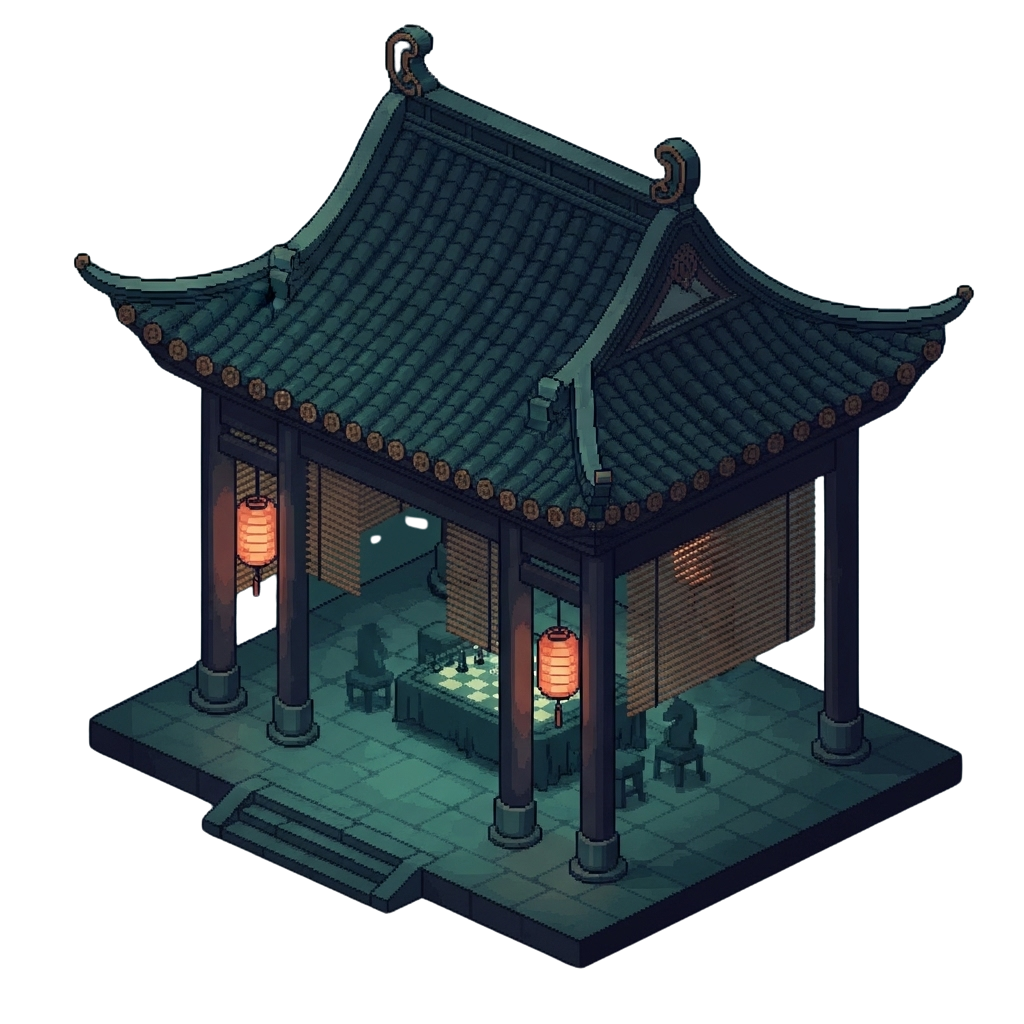
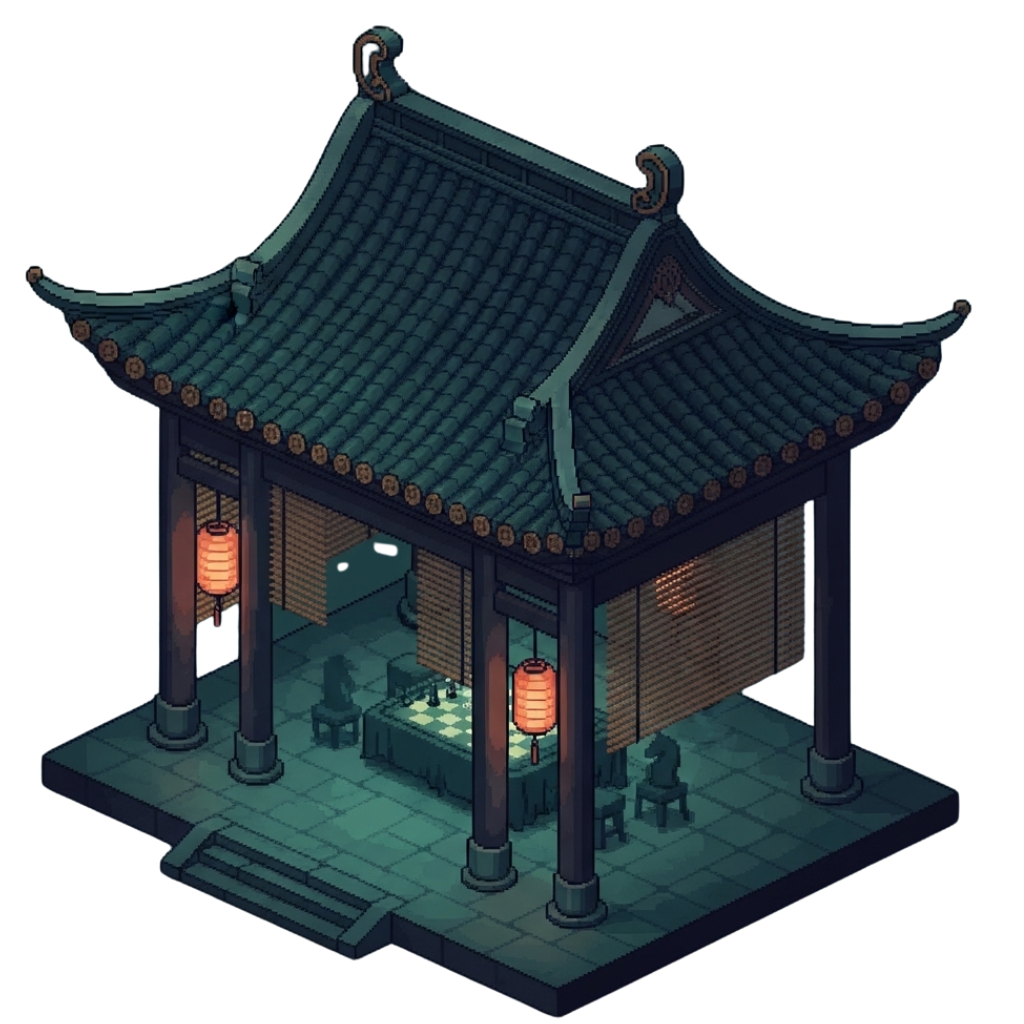
feat: change the building's img when hovered

diff --git a/Scene/playground.cpp b/Scene/playground.cpp
@@ -9,12 +9,16 @@ void Playground::Initialize() {
     background = Engine::Resources::GetInstance().GetBitmap("playground/playground.png");
     
     // 載入建築圖片
-    auto anqi_house_img = Engine::Resources::GetInstance().GetBitmap("playground/anqi_house.png");
-    auto xiangqi_house_img = Engine::Resources::GetInstance().GetBitmap("playground/xiangqi_house.png");
+    auto anqi_house_normal = Engine::Resources::GetInstance().GetBitmap("playground/anqi_house.png");
+    auto anqi_house_pressed = Engine::Resources::GetInstance().GetBitmap("playground/anqi_house_pressed.png");
+    auto xiangqi_house_normal = Engine::Resources::GetInstance().GetBitmap("playground/xiangqi_house.png");
+    auto xiangqi_house_pressed = Engine::Resources::GetInstance().GetBitmap("playground/xiangqi_house_pressed.png");
     
     // 初始化建築物
-    buildings.push_back(Building(ANQI_HOUSE_X, ANQI_HOUSE_Y, HOUSE_SIZE, HOUSE_SIZE, anqi_house_img, "anqi_house"));
-    buildings.push_back(Building(XIANGQI_HOUSE_X, XIANGQI_HOUSE_Y, HOUSE_SIZE, HOUSE_SIZE, xiangqi_house_img, "xiangqi_house"));
+    buildings.push_back(Building(ANQI_HOUSE_X, ANQI_HOUSE_Y, HOUSE_SIZE, HOUSE_SIZE, 
+                                anqi_house_normal, anqi_house_pressed, "anqi_house"));
+    buildings.push_back(Building(XIANGQI_HOUSE_X, XIANGQI_HOUSE_Y, HOUSE_SIZE, HOUSE_SIZE, 
+                                xiangqi_house_normal, xiangqi_house_pressed, "xiangqi_house"));
     
     // 創建玩家
     player = new Player();
@@ -48,8 +52,9 @@ void Playground::Draw() const {
         float draw_x = (building.x - camera_x - building.width/2) * scale_x;
         float draw_y = (building.y - camera_y - building.height/2) * scale_y;
         al_draw_scaled_bitmap(
-            building.image.get(),
-            0, 0, al_get_bitmap_width(building.image.get()), al_get_bitmap_height(building.image.get()),
+            building.GetCurrentImage().get(),
+            0, 0, al_get_bitmap_width(building.GetCurrentImage().get()), 
+            al_get_bitmap_height(building.GetCurrentImage().get()),
             draw_x, draw_y, building.width * scale_x, building.height * scale_y,
             0
         );
@@ -96,77 +101,52 @@ void Playground::Update(float deltaTime) {
     float playerSize = player->getSize();
     float moveSpeed = player->getSpeed();
     
+    // 獲取滑鼠位置
+    ALLEGRO_MOUSE_STATE mouse_state;
+    al_get_mouse_state(&mouse_state);
+    int mouse_x = mouse_state.x;
+    int mouse_y = mouse_state.y;
+    
+    // 更新建築物的懸停狀態
+    float scale_x = SCREEN_RIGHT / VIEWPORT_WIDTH;
+    float scale_y = SCREEN_BOTTOM / VIEWPORT_HEIGHT;
+    
+    // 重置所有建築物的懸停狀態
+    for (auto& building : buildings) {
+        building.is_hovered = false;
+    }
+    
+    // 檢查每個建築物的懸停狀態
+    for (auto& building : buildings) {
+        if (building.IsMouseOver(mouse_x, mouse_y, camera_x, camera_y, scale_x, scale_y)) {
+            building.is_hovered = true;
+            break;  // 一次只能懸停一個建築物
+        }
+    }
+    
     // 處理輸入並檢查碰撞
     if (Engine::GameEngine::GetInstance().IsKeyDown(ALLEGRO_KEY_W)) {
         float newY = playerY - moveSpeed;
-        // 先檢查垂直移動
         if (newY - playerSize/2 > SCREEN_TOP && !CheckBuildingCollision(playerX, newY)) {
             player->moveUp();
-        } else {
-            // 如果垂直移動會碰撞，嘗試水平移動
-            if (Engine::GameEngine::GetInstance().IsKeyDown(ALLEGRO_KEY_A) && 
-                !CheckBuildingCollision(playerX - moveSpeed, playerY)) {
-                player->moveLeft();
-            }
-            if (Engine::GameEngine::GetInstance().IsKeyDown(ALLEGRO_KEY_D) && 
-                !CheckBuildingCollision(playerX + moveSpeed, playerY)) {
-                player->moveRight();
-            }
         }
     }
     if (Engine::GameEngine::GetInstance().IsKeyDown(ALLEGRO_KEY_S)) {
         float newY = playerY + moveSpeed;
         if (newY + playerSize/2 < SCREEN_BOTTOM && !CheckBuildingCollision(playerX, newY)) {
             player->moveDown();
-        } else {
-            if (Engine::GameEngine::GetInstance().IsKeyDown(ALLEGRO_KEY_A) && 
-                !CheckBuildingCollision(playerX - moveSpeed, playerY)) {
-                player->moveLeft();
-            }
-            if (Engine::GameEngine::GetInstance().IsKeyDown(ALLEGRO_KEY_D) && 
-                !CheckBuildingCollision(playerX + moveSpeed, playerY)) {
-                player->moveRight();
-            }
         }
     }
     if (Engine::GameEngine::GetInstance().IsKeyDown(ALLEGRO_KEY_A)) {
         float newX = playerX - moveSpeed;
         if (newX - playerSize/2 > SCREEN_LEFT && !CheckBuildingCollision(newX, playerY)) {
             player->moveLeft();
-        } else {
-            if (Engine::GameEngine::GetInstance().IsKeyDown(ALLEGRO_KEY_W) && 
-                !CheckBuildingCollision(playerX, playerY - moveSpeed)) {
-                player->moveUp();
-            }
-            if (Engine::GameEngine::GetInstance().IsKeyDown(ALLEGRO_KEY_S) && 
-                !CheckBuildingCollision(playerX, playerY + moveSpeed)) {
-                player->moveDown();
-            }
         }
     }
     if (Engine::GameEngine::GetInstance().IsKeyDown(ALLEGRO_KEY_D)) {
         float newX = playerX + moveSpeed;
         if (newX + playerSize/2 < SCREEN_RIGHT && !CheckBuildingCollision(newX, playerY)) {
             player->moveRight();
-        } else {
-            if (Engine::GameEngine::GetInstance().IsKeyDown(ALLEGRO_KEY_W) && 
-                !CheckBuildingCollision(playerX, playerY - moveSpeed)) {
-                player->moveUp();
-            }
-            if (Engine::GameEngine::GetInstance().IsKeyDown(ALLEGRO_KEY_S) && 
-                !CheckBuildingCollision(playerX, playerY + moveSpeed)) {
-                player->moveDown();
-            }
-        }
-    }
-    
-    // 檢查是否靠近建築物並按下空白鍵
-    for (const auto& building : buildings) {
-        if (building.IsColliding(playerX, playerY, player->getSize()) && 
-            Engine::GameEngine::GetInstance().IsKeyDown(ALLEGRO_KEY_SPACE)) {
-            if (building.name == "anqi_house") {
-                Engine::GameEngine::GetInstance().ChangeScene("start");
-            }
         }
     }
     
@@ -177,5 +157,14 @@ void Playground::Update(float deltaTime) {
 
 // 新增：處理滑鼠事件
 void Playground::OnMouseDown(int button, int mx, int my) {
-    std::cout << "Mouse Click: screen(" << mx << ", " << my << ")" << std::endl;
+    float scale_x = SCREEN_RIGHT / VIEWPORT_WIDTH;
+    float scale_y = SCREEN_BOTTOM / VIEWPORT_HEIGHT;
+    
+    // 檢查是否點擊了建築物
+    for (const auto& building : buildings) {
+        if (building.IsMouseOver(mx, my, camera_x, camera_y, scale_x, scale_y)) {
+            Engine::GameEngine::GetInstance().ChangeScene("start");
+            return;
+        }
+    }
 }

diff --git a/Scene/playground.hpp b/Scene/playground.hpp
@@ -5,6 +5,7 @@
 #include <allegro5/allegro_primitives.h>
 #include <memory>
 #include <vector>
+#include <cmath>
 #include "Engine/IScene.hpp"
 #include "Player/player.hpp"
 
@@ -14,18 +15,40 @@ struct Building {
     float y;
     float width;
     float height;
-    std::shared_ptr<ALLEGRO_BITMAP> image;
+    std::shared_ptr<ALLEGRO_BITMAP> normal_image;    // 一般狀態圖片
+    std::shared_ptr<ALLEGRO_BITMAP> pressed_image;   // 按下狀態圖片
     std::string name;
+    bool is_hovered;  // 滑鼠是否懸停在建築上
 
-    Building(float x, float y, float width, float height, std::shared_ptr<ALLEGRO_BITMAP> img, std::string name)
-        : x(x), y(y), width(width), height(height), image(img), name(name) {}
+    Building(float x, float y, float width, float height, 
+            std::shared_ptr<ALLEGRO_BITMAP> normal_img,
+            std::shared_ptr<ALLEGRO_BITMAP> pressed_img,
+            std::string name)
+        : x(x), y(y), width(width), height(height), 
+          normal_image(normal_img), pressed_image(pressed_img),
+          name(name), is_hovered(false) {}
 
     bool IsColliding(float playerX, float playerY, float playerSize) const {
         // 檢查玩家是否與建築物碰撞
-        return (playerX + playerSize/2 > x - width/2 + 10 &&
-                playerX - playerSize/2 < x + width/2  - 10&&
-                playerY + playerSize/2 > y - height/2 + 10 &&
-                playerY - playerSize/2 < y + height/2 - 10);
+        return (playerX + playerSize/2 > x - width/2 &&
+                playerX - playerSize/2 < x + width/2 &&
+                playerY + playerSize/2 > y - height/2 &&
+                playerY - playerSize/2 < y + height/2);
+    }
+
+    bool IsMouseOver(float mouseX, float mouseY, float camera_x, float camera_y, float scale_x, float scale_y) const {
+        // 將滑鼠座標轉換為遊戲世界座標
+        float world_mouse_x = mouseX / scale_x + camera_x;
+        float world_mouse_y = mouseY / scale_y + camera_y;
+
+        return (world_mouse_x > x - width/2 &&
+                world_mouse_x < x + width/2 &&
+                world_mouse_y > y - height/2 &&
+                world_mouse_y < y + height/2);
+    }
+
+    std::shared_ptr<ALLEGRO_BITMAP> GetCurrentImage() const {
+        return is_hovered ? pressed_image : normal_image;
     }
 };
 
